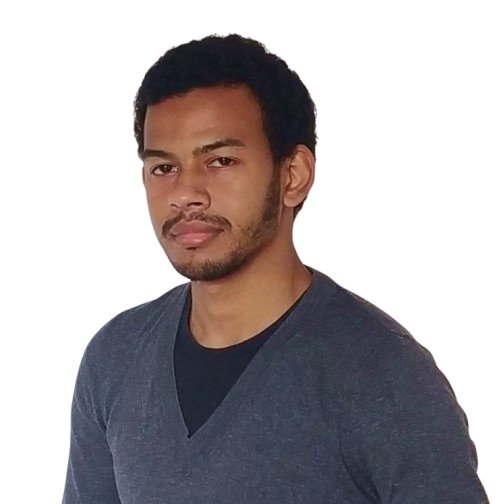
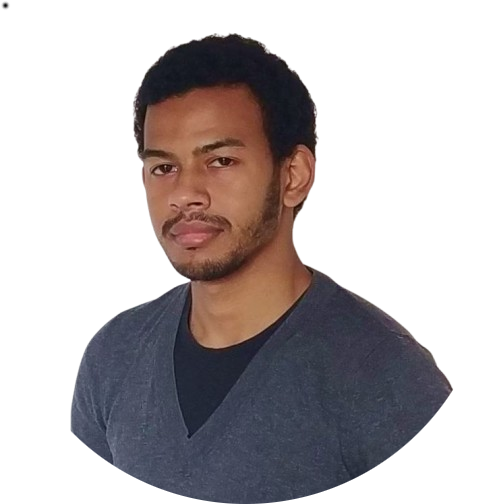
update photo and fix build

Changed region(s): [[0.5152, 0.7738, 1.0, 1.0], [0.1212, 0.8631, 0.4545, 1.0], [0.0, 0.0, 0.0303, 0.0298]]

diff --git a/app/contact/page.jsx b/app/contact/page.jsx
@@ -51,7 +51,7 @@ const Contact = () => {
           {/* form */}
           <div className="xl:w-[54%] order-2 xl:order-none">
             <form className="flex flex-col gap-6 p-10 bg-[#27272c] rounded-xl">
-              <h3 className="text-4xl text-accent">Let's work together</h3>
+              <h3 className="text-4xl text-accent">Let&apos;s work together</h3>
               <p className="text-white/60">
                 Lorem, ipsum dolor sit amet consectetur adipisicing elit. Eum
                 nihil sapiente pariatur id totam.

diff --git a/app/page.jsx b/app/page.jsx
@@ -14,7 +14,7 @@ const Home = () => {
           {/* text */}
           <div className="text-center xl:text-left order-2 xl:order-none">
             <h1 className="h1 mb-6">
-              Hello, I'm <br /> <span className="text-accent">Salem Hellal</span>
+              Hello, I&apos;m <br /> <span className="text-accent">Salem Hellal</span>
             </h1>
             <p className="max-w-[500px] mb-9 text-white/80">
               DevOps Engineer and Full-Stack Developer, specializing in cloud platforms,
